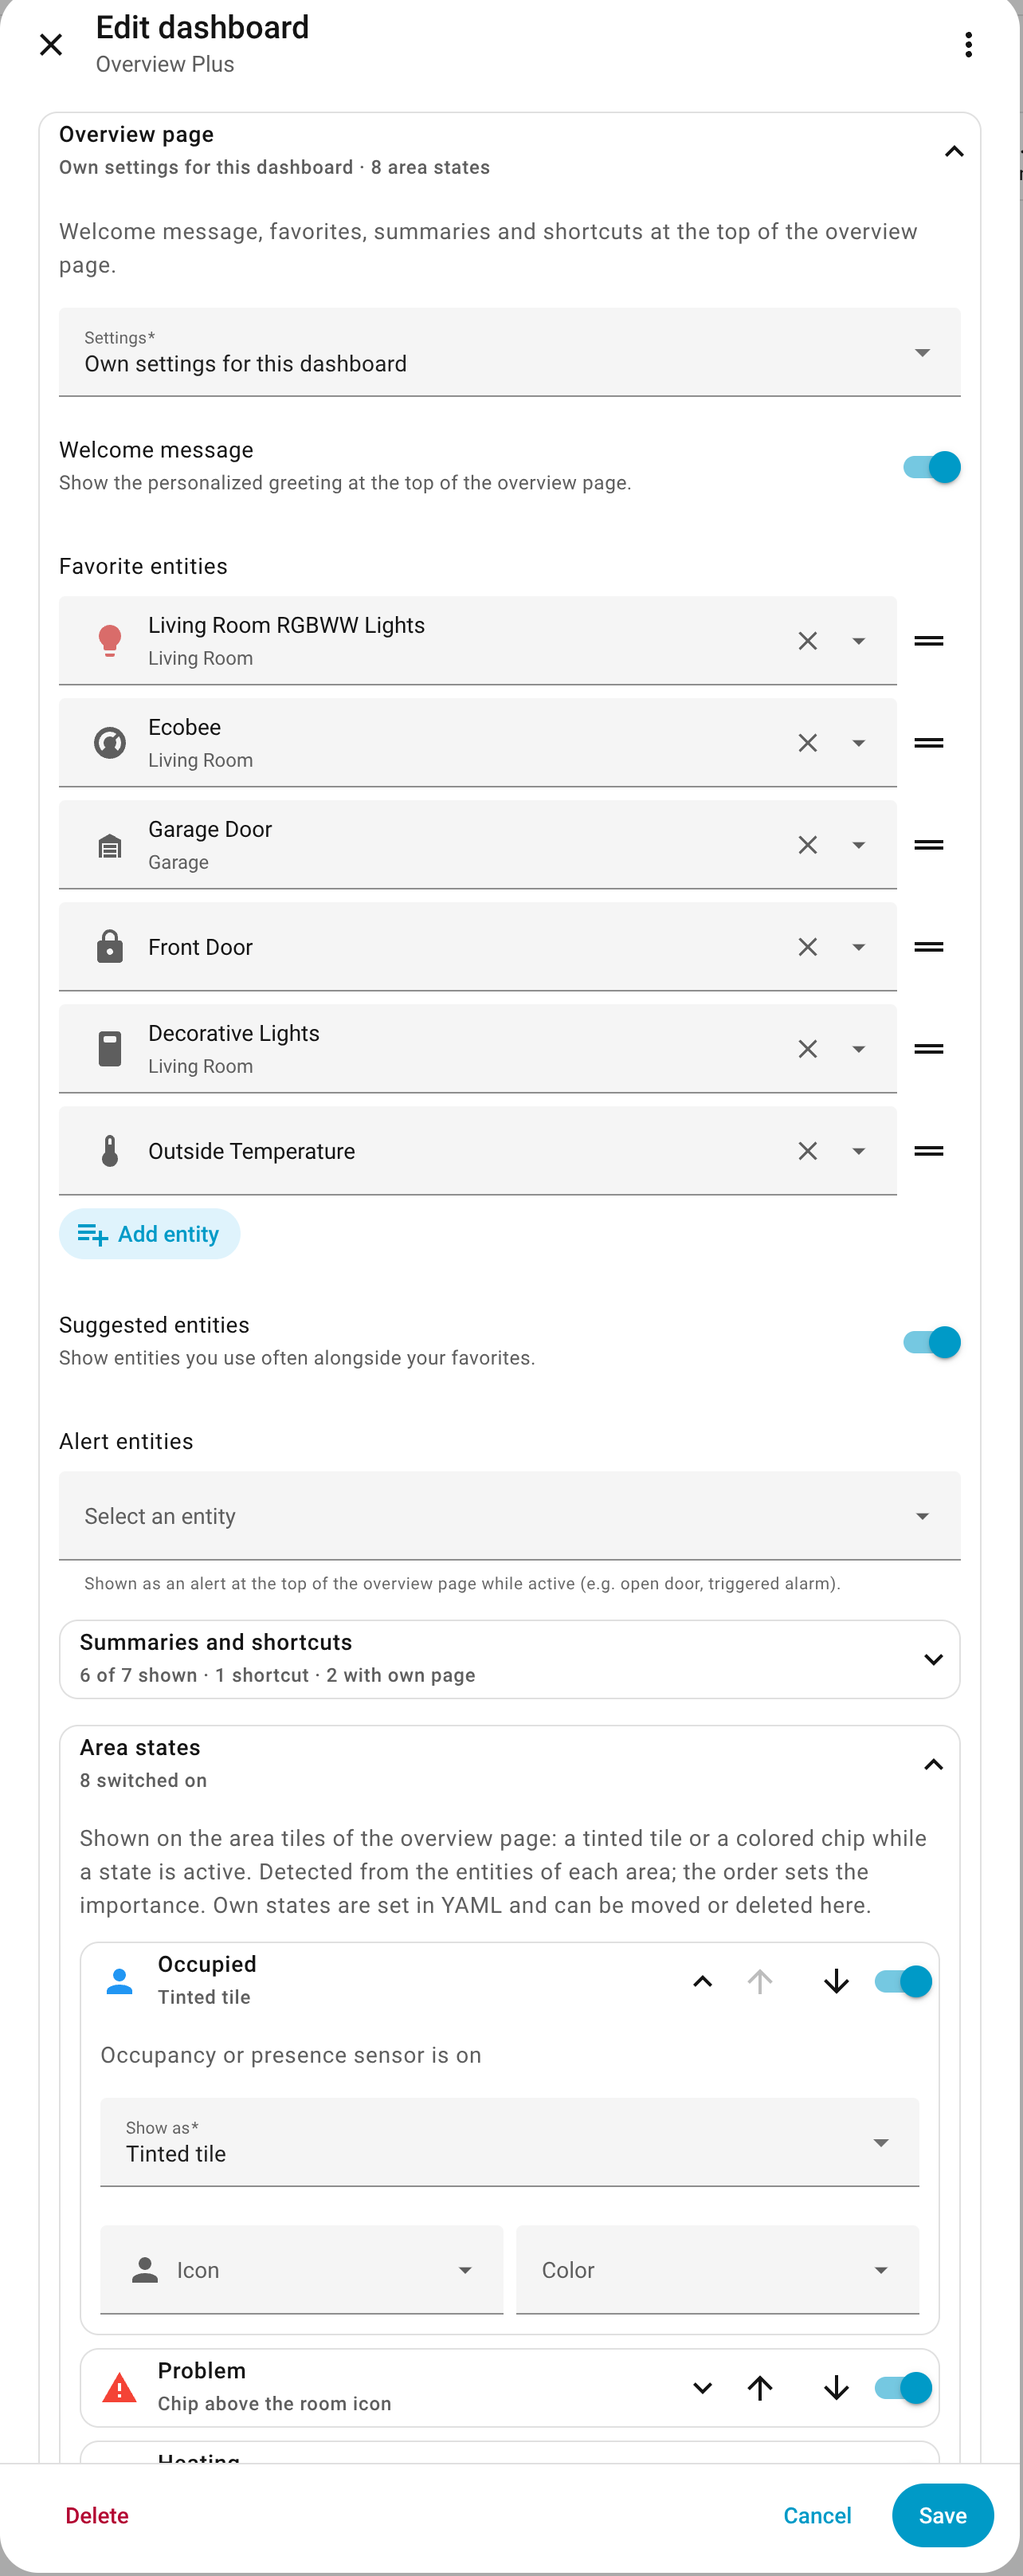
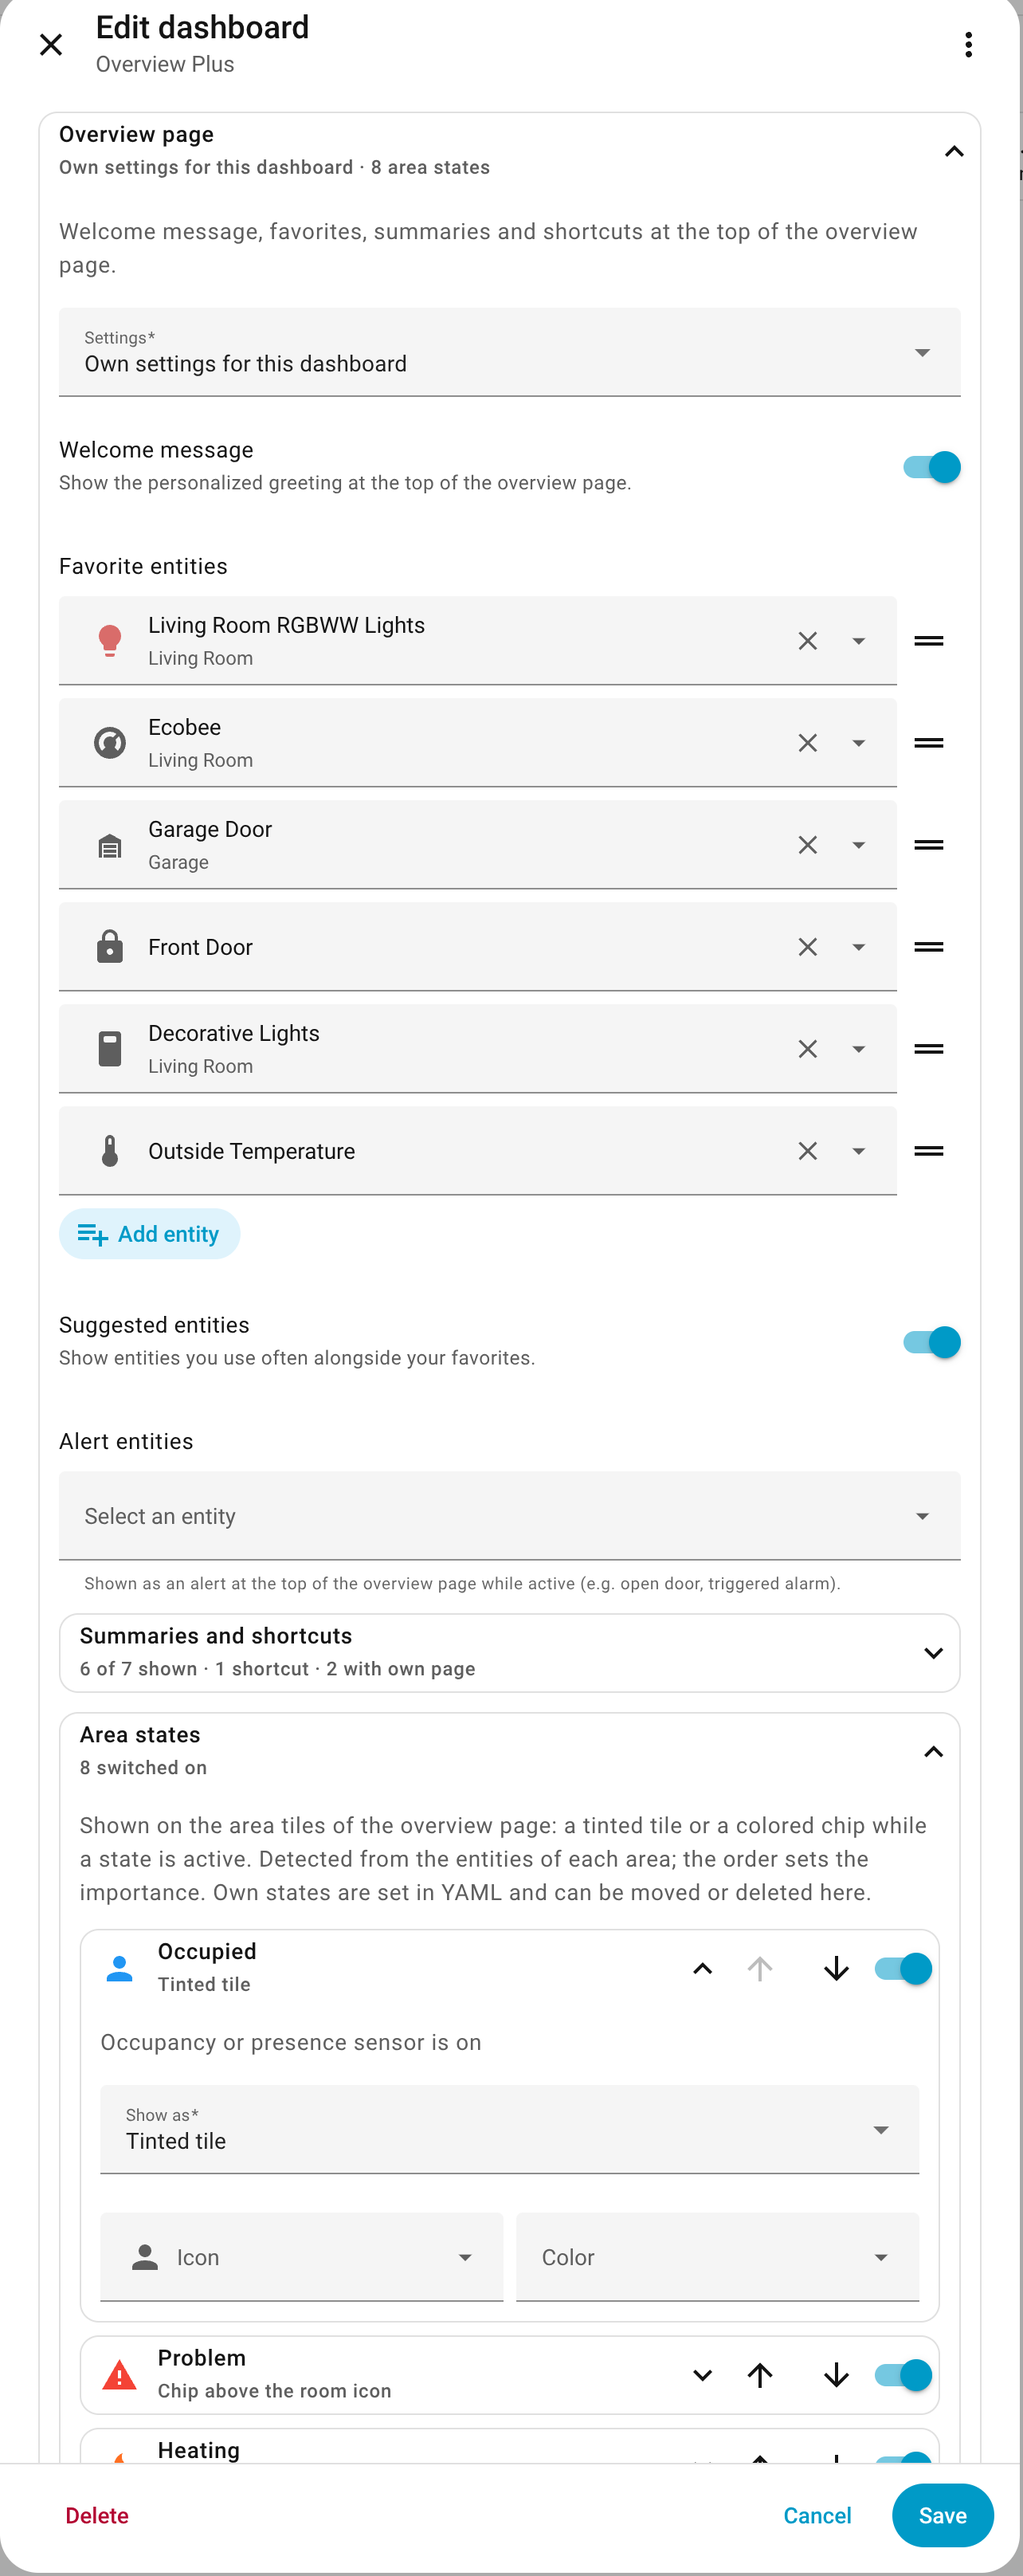
fix: address review of the collapsible overview page parts
- Count only saved shortcuts (with a path) and non-blank pages in the
  Summaries header.
- Actions row spacing inside the panel; 12px between the parts, like the
  top-level parts.
- README names the built-in-settings variant; comment on the shared
  open-state key.
- Test: summaries follow changes, open state remembered across a source
  switch.

diff --git a/src/editor/editor.js b/src/editor/editor.js
@@ -45,7 +45,8 @@ const STYLE = `
   .top { display: block; }
   .top + .top { margin-top: 12px; }
   .top > .panel-body { padding: 16px 12px; }
-  .sub { margin-top: 16px; }
+  .sub { margin-top: 12px; }
+  .sub .home-actions { margin-top: -8px; }
   .sub > .panel-body > .hint { margin: 0 0 -12px; }
   .sub .home-items, .sub .indicator-items { margin: 0; }
   .subheading { font-weight: var(--ha-font-weight-medium, 500); margin: 0 0 4px; }
@@ -507,12 +508,13 @@ class OverviewPlusStrategyEditor extends HTMLElement {
     this._topHeaders.general?.(this._t(TOP_TITLES.general), n(this._form.rules.length, "editor_one_rule", "editor_n_rules", "editor_no_rules_short"));
 
     // Parts inside "Overview page"
-    const ownPages = Object.values(this._form.summary_pages || {}).filter(Boolean).length;
+    // Count what is saved: pages that are not blank, shortcuts with a path
+    const ownPages = Object.values(this._form.summary_pages || {}).filter((v) => (typeof v === "string" ? v.trim() : v != null)).length;
     const pagesText = ownPages ? this._t("editor_sum_pages", { n: String(ownPages) }) : this._t("editor_sum_default_pages");
     if (own) {
       const items = this._form.home?.items || [];
       const summaries = items.filter((/** @type {any} */ i) => i.type === "summary");
-      const shortcuts = items.filter((/** @type {any} */ i) => i.type !== "summary").length;
+      const shortcuts = items.filter((/** @type {any} */ i) => i.type !== "summary" && i.path).length;
       this._subHeaders.summaries?.([
         this._t("editor_sum_shown", { n: String(summaries.filter((/** @type {any} */ i) => !i.hidden).length), total: String(summaries.length) }),
         ...(shortcuts ? [this._t(shortcuts === 1 ? "editor_sum_one_shortcut" : "editor_sum_shortcuts", { n: String(shortcuts) })] : []),
@@ -651,6 +653,8 @@ class OverviewPlusStrategyEditor extends HTMLElement {
    * @param {string} titleKey
    */
   _subPanel(key, titleKey) {
+    // "summaries" is shared by the own-settings and the built-in-settings variant on purpose:
+    // only one exists at a time, and switching the source keeps it open or closed
     const id = `home-${key}`;
     const panel = this._panel(this._t(titleKey), "", this._openTop.has(id), (open) => {
       if (open) this._openTop.add(id);

diff --git a/test/editor.test.js b/test/editor.test.js
@@ -471,3 +471,30 @@ test("summaries and area states are collapsible parts of the overview page, with
   assert.match(root(builtin.editor).querySelector("details.sub-summaries > summary").textContent, /Home Assistant's pages$/);
   assert.match(root(builtin.editor).querySelector("details.sub-indicators > summary").textContent, /None switched on$/);
 });
+
+test("overview page part summaries follow changes; open state is remembered", () => {
+  window.localStorage.removeItem("overview-plus:editor-open");
+  const { editor } = setup({ type: "custom:overview-plus", load_home_settings: false, shortcuts: [{ type: "custom", path: "/map" }] });
+  const sub = (key) => root(editor).querySelector(`details.sub-${key}`);
+  const text = (key) => sub(key).querySelector(":scope > summary").textContent;
+  assert.match(text("summaries"), /7 of 7 shown · 1 shortcut$/);
+  // an empty new shortcut is not saved, so it is not counted
+  click(buttons(root(editor), "Add shortcut")[0]);
+  const toggle = root(editor).querySelector(".home-items input[type=checkbox]");
+  toggle.checked = false;
+  toggle.dispatchEvent(new Event("change"));
+  assert.match(text("summaries"), /6 of 7 shown · 1 shortcut$/);
+  edit(formWith(root(editor), "sp_light"), { sp_light: "/lights-plus/0" });
+  assert.match(text("summaries"), /· 1 with own page$/);
+  const state = root(editor).querySelector(".indicator-items input[type=checkbox]");
+  state.checked = true;
+  state.dispatchEvent(new Event("change"));
+  assert.match(text("indicators"), /1 switched on$/);
+
+  sub("summaries").open = true;
+  sub("summaries").dispatchEvent(new Event("toggle"));
+  assert.ok(JSON.parse(window.localStorage.getItem("overview-plus:editor-open")).includes("home-summaries"));
+  edit(formWith(root(editor), "h_source"), { h_source: "builtin" });
+  assert.ok(sub("summaries").open, "still open after switching the source");
+  window.localStorage.removeItem("overview-plus:editor-open");
+});

diff --git a/README.md b/README.md
@@ -48,15 +48,15 @@ parts, each with a short summary of what is set.
 
 <table>
 <tr>
-<td width="50%" valign="top"><b>Overview page</b> – favorites, summaries and shortcuts, own or those of the built-in Overview<br><br><img src="https://raw.githubusercontent.com/financelurker/ha-overview-plus/main/docs/images/editor-overview-page.png?v=2e1824e2d8" alt="Editor: overview page settings"></td>
+<td width="50%" valign="top"><b>Overview page</b> – favorites, summaries and shortcuts, own or those of the built-in Overview<br><br><img src="https://raw.githubusercontent.com/financelurker/ha-overview-plus/main/docs/images/editor-overview-page.png?v=2f50c95543" alt="Editor: overview page settings"></td>
 <td width="50%" valign="top"><b>Area layout</b> – badges, tile and sections, selected by label, integration and more<br><br><img src="https://raw.githubusercontent.com/financelurker/ha-overview-plus/main/docs/images/editor-area.png?v=25b0602faa" alt="Editor: area layout with sections"></td>
 </tr>
 <tr>
 <td width="50%" valign="top"><b>Card rule</b> – replace a card and show another one in a popup on tap<br><br><img src="https://raw.githubusercontent.com/financelurker/ha-overview-plus/main/docs/images/editor-card-rule.png?v=a48dda084d" alt="Editor: card rule with popup"></td>
-<td width="50%" valign="top"><b>Summaries</b> – order, show or hide, and the page each one leads to: Home Assistant's own or a dashboard of yours<br><br><img src="https://raw.githubusercontent.com/financelurker/ha-overview-plus/main/docs/images/editor-summary-pages.png?v=1ed4469bbb" alt="Editor: pages of the summaries"></td>
+<td width="50%" valign="top"><b>Summaries</b> – order, show or hide, and the page each one leads to: Home Assistant's own or a dashboard of yours<br><br><img src="https://raw.githubusercontent.com/financelurker/ha-overview-plus/main/docs/images/editor-summary-pages.png?v=3549513610" alt="Editor: pages of the summaries"></td>
 </tr>
 <tr>
-<td width="50%" valign="top"><b>Area states</b> – which states the area tiles show, their order, tile or chip, icon and color<br><br><img src="https://raw.githubusercontent.com/financelurker/ha-overview-plus/main/docs/images/editor-indicators.png?v=da2f642b00" alt="Editor: area states"></td>
+<td width="50%" valign="top"><b>Area states</b> – which states the area tiles show, their order, tile or chip, icon and color<br><br><img src="https://raw.githubusercontent.com/financelurker/ha-overview-plus/main/docs/images/editor-indicators.png?v=107427816f" alt="Editor: area states"></td>
 <td width="50%" valign="top"><b>Mobile</b> – the overview page on a phone<br><br><img src="https://raw.githubusercontent.com/financelurker/ha-overview-plus/main/docs/images/overview-mobile.png?v=b927038a82" alt="Overview page on a phone"></td>
 </tr>
 </table>
@@ -91,8 +91,8 @@ To configure it, open the dashboard → ✏ (edit). The visual editor has thr
 open ones are remembered in the browser):
 
 - **Overview page:** welcome message, favorites, suggested entities, summaries and shortcuts, alert
-  entities – the same as in the built-in Overview, or own settings for this dashboard. *Summaries and shortcuts* and
-  *Area states* are collapsible parts of it.
+  entities – the same as in the built-in Overview, or own settings for this dashboard. *Summaries and shortcuts* (with the
+  built-in settings: *Pages of the summaries*) and *Area states* are collapsible parts of it.
 - **Area layouts:** every area with its own layout is a collapsible block showing its sections and a
   short summary. Inside: badges, the toggles for remaining devices and automations, and the sections
   (title, icon, layout, label). *Refine selection*, *Entity filter* and *Primary entity* are form
